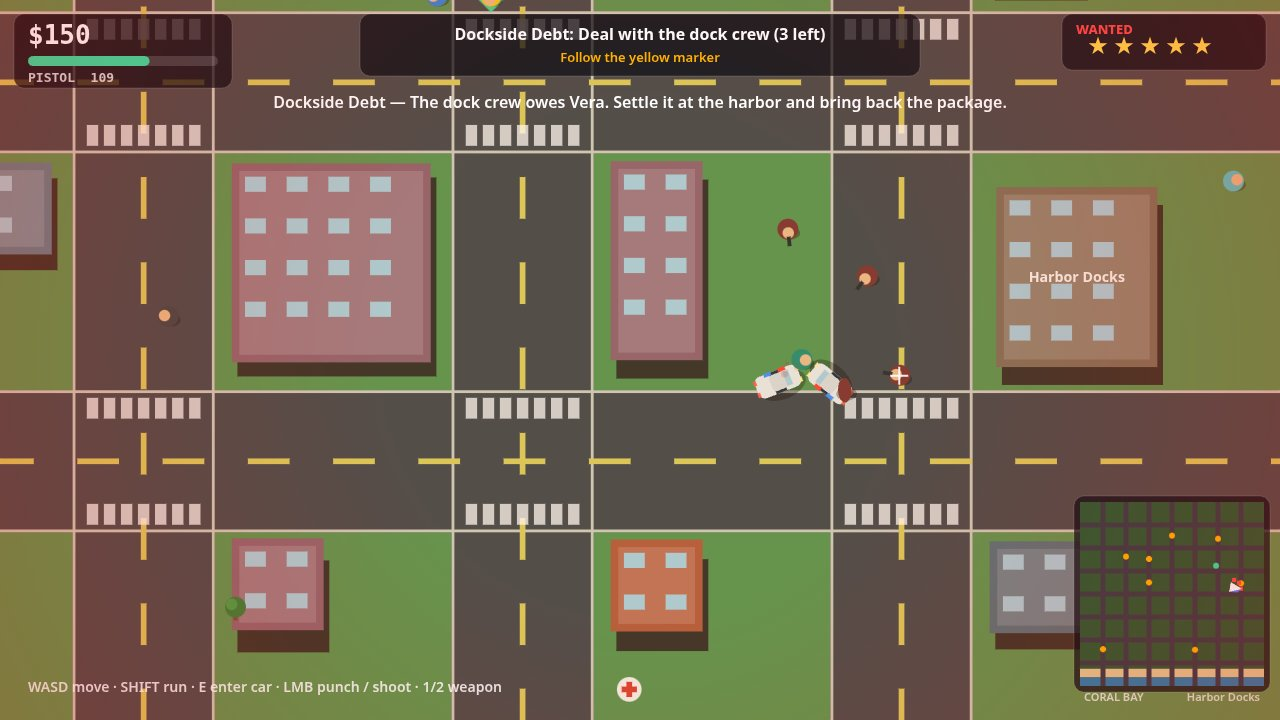
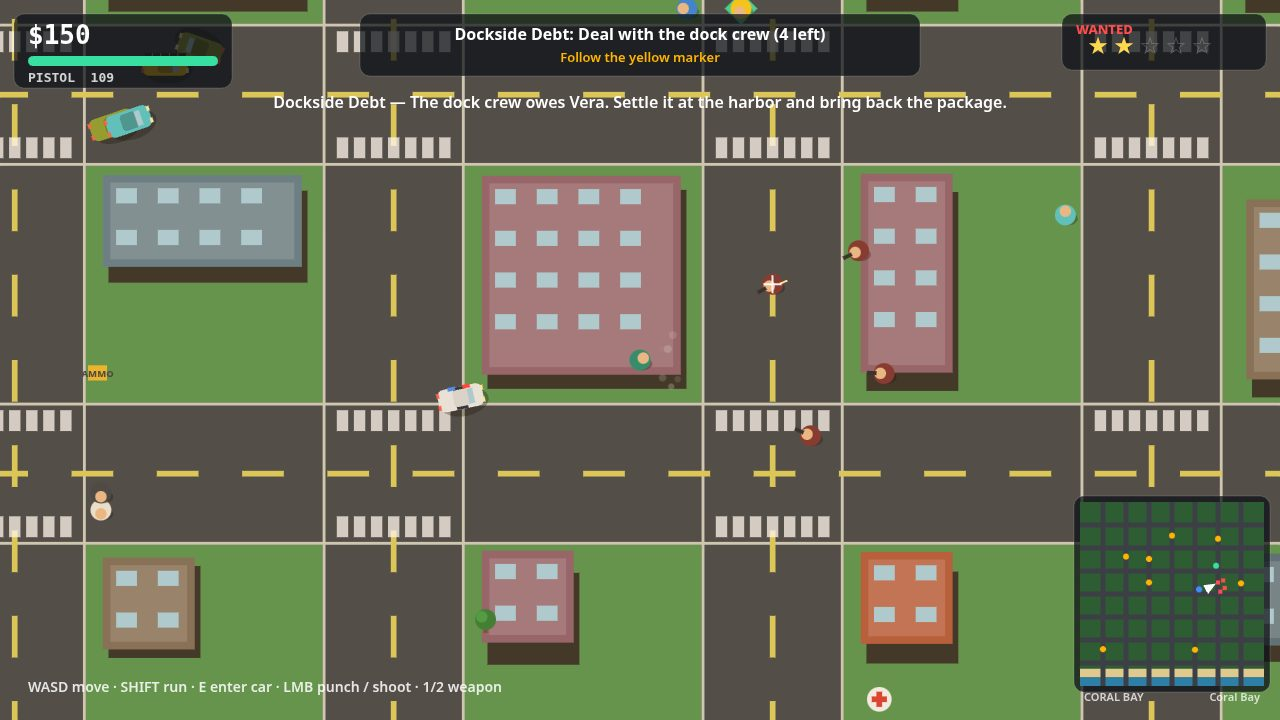
Coral Heat fix round: centre mission shot, gradual gunfire heat, live mission proof
- shots.js: stage the Dockside Debt fight west of the docks so the camera centres the player instead of clamping at the east edge
- Heat retune: pistol shots add 25 heat, 100 heat buys one wanted star (was +1 star per shot); heat cools when clean. Mission scene now shows wanted 2, not 5
- Live play-test: Clean Ride played to completion with real CDP input (walk, steal, drive, deliver), zero console errors

diff --git a/game/src/game.js b/game/src/game.js
@@ -13,6 +13,7 @@ import {
   EVENT_EXPLOSION,
   EVENT_FARE,
   EVENT_PLAYER_HURT,
+  EVENT_SHOT,
   spawnCopCar,
   spawnFare,
   spawnFootCop,
@@ -59,6 +60,7 @@ export function createGame(seed) {
     timeOfDay: 0.08,
     cash: 150,
     wanted: 0,
+    heat: 0,
     lastCrimeAt: -1000,
     wantedTimer: 0,
     bustTimer: 0,
@@ -125,6 +127,7 @@ export function createGame(seed) {
     state.timeOfDay = 0.08;
     state.cash = 150;
     state.wanted = 0;
+    state.heat = 0;
     state.lastCrimeAt = -1000;
     state.wantedTimer = 0;
     state.bustTimer = 0;
@@ -261,7 +264,11 @@ export function createGame(seed) {
   }
 
   function updateWanted(dt) {
-    if (state.wanted === 0) return;
+    if (state.wanted === 0) {
+      // No heat: banked shot heat cools off instead of waiting for a star.
+      if (state.heat > 0) state.heat = Math.max(0, state.heat - WANTED.heatDecay * dt);
+      return;
+    }
     if (state.time - state.lastCrimeAt < WANTED.decayDelay) {
       state.wantedTimer = 0;
       return;
@@ -284,6 +291,7 @@ export function createGame(seed) {
     if (state.wantedTimer >= WANTED.decayEvery) {
       state.wantedTimer = 0;
       state.wanted -= 1;
+      state.heat = 0;
       if (state.wanted === 0) {
         state.cops.length = 0;
         state.cars = state.cars.filter((c) => c.kind !== 'cop');
@@ -335,6 +343,18 @@ export function createGame(seed) {
       state.wanted = Math.min(WANTED.max, state.wanted + 1);
       state.lastCrimeAt = state.time;
       state.wantedTimer = 0;
+    }
+    if (events & EVENT_SHOT) {
+      // Gunfire heats up a star at a time: four shots buy the first star,
+      // a full firefight climbs to three, and only sustained fire maxes out.
+      state.heat += WANTED.shotHeat;
+      state.lastCrimeAt = state.time;
+      state.wantedTimer = 0;
+      while (state.heat >= WANTED.heatPerStar && state.wanted < WANTED.max) {
+        state.heat -= WANTED.heatPerStar;
+        state.wanted += 1;
+      }
+      if (state.wanted >= WANTED.max) state.heat = 0;
     }
     if (events & EVENT_COP_KILLED) {
       state.wanted = Math.min(WANTED.max, state.wanted + 1);

diff --git a/game/src/shots.js b/game/src/shots.js
@@ -187,13 +187,27 @@ export function stageShot(name, game) {
     return { screen: 'play' };
   }
 
-  // mission: a firefight at the docks.
+  // mission: a firefight at the docks. The fight is staged west of the
+  // docks building, where the camera can centre on the player: at the
+  // marker itself the camera clamps against the map's east edge and the
+  // player ends up hard right in the frame.
   state.screen = 'play';
   startMission(state, 2);
   state.mission.step = 1;
   const dock = state.city.landmarks.docks.marker;
-  state.player.x = dock.x - 260;
-  state.player.y = dock.y + 120;
+  const fightSpots = [
+    { x: 2400, y: 1400 },
+    { x: 2560, y: 1330 },
+    { x: 2440, y: 1560 },
+    { x: 2620, y: 1500 },
+  ];
+  state.thugs.forEach((thug, i) => {
+    const spot = fightSpots[i % fightSpots.length];
+    thug.x = spot.x;
+    thug.y = spot.y;
+  });
+  state.player.x = 2260;
+  state.player.y = 1480;
   state.player.hasPistol = true;
   state.player.ammo = 120;
   state.player.weapon = 'pistol';

diff --git a/game/src/entities.js b/game/src/entities.js
@@ -14,6 +14,9 @@ export const EVENT_PICKUP = 16;
 export const EVENT_EXPLOSION = 32;
 export const EVENT_PED_DOWN = 64;
 export const EVENT_FARE = 128;
+// A pistol shot: heat, not an instant star — handled on its own so the
+// wanted level climbs a shot at a time instead of jumping to five.
+export const EVENT_SHOT = 256;
 
 function dist(ax, ay, bx, by) {
   return Math.hypot(ax - bx, ay - by);
@@ -447,7 +450,7 @@ function updatePlayerOnFoot(state, input, dt, aim) {
       life: 0.6, from: 'player', damage: PLAYER.pistolDamage,
     });
     addParticles(state, p.x + Math.cos(a) * 24, p.y + Math.sin(a) * 24, 3, '#ffd94d', 140, 0.15, 3);
-    return EVENT_CRIME;
+    return EVENT_SHOT;
   }
   return 0;
 }

diff --git a/game/src/config.js b/game/src/config.js
@@ -60,6 +60,12 @@ export const WANTED = {
   decayEvery: 9,
   bustSeconds: 1.5,
   bustRange: 30,
+  // Gunfire heats up gradually: one pistol shot adds shotHeat, and a full
+  // heatPerStar buys one wanted star. A short burst earns a star or two;
+  // only sustained fire climbs to five.
+  shotHeat: 25,
+  heatPerStar: 100,
+  heatDecay: 15,
 };
 
 export const COUNTS = {
